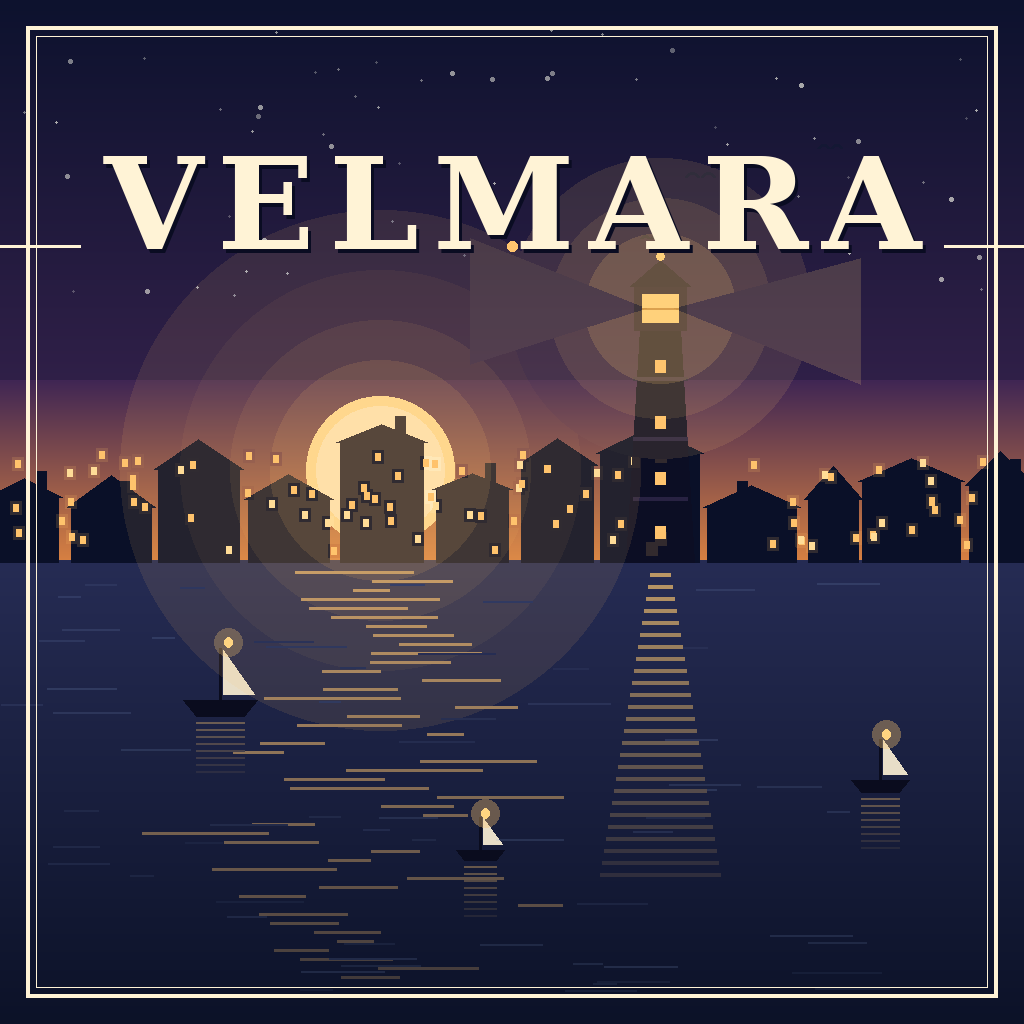
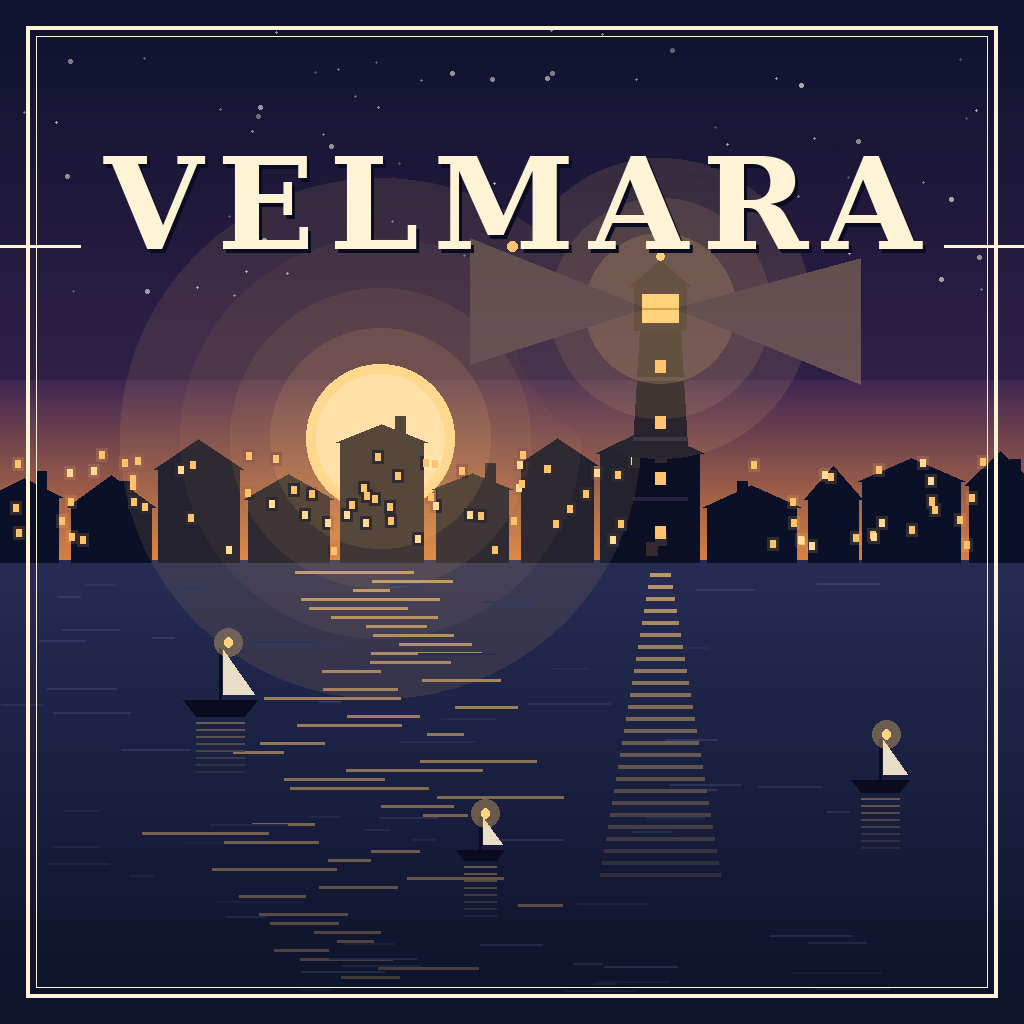
Revision: raise the sun clear of the rooftops, warm the tower beams

diff --git a/build_image.py b/build_image.py
@@ -38,7 +38,7 @@ def main():
     vgrad(d, (0, 0, W, HORIZON), (13, 18, 46), (64, 38, 84))
     vgrad(d, (0, 380, W, HORIZON), (64, 38, 84), (214, 128, 66))
     # sun glow + disc, low over the sea, left of centre
-    sx, sy, sr = 380, 470, 74
+    sx, sy, sr = 380, 438, 74
     for r, a in ((260, 26), (200, 38), (150, 55), (110, 80)):
         od.ellipse([sx - r, sy - r, sx + r, sy + r], fill=(255, 190, 100, a))
     d.ellipse([sx - sr, sy - sr, sx + sr, sy + sr], fill=(255, 226, 160))
@@ -128,9 +128,9 @@ def main():
     d.ellipse([tx - 4, top_y - 16, tx + 4, top_y - 8], fill=(255, 214, 130))
     # light beams fanning out
     od.polygon([(tx - 14, top_y + 40), (tx - 190, top_y - 30), (tx - 190, top_y + 96)],
-               fill=(255, 210, 120, 46))
+               fill=(255, 210, 120, 72))
     od.polygon([(tx + 14, top_y + 40), (tx + 200, top_y - 10), (tx + 200, top_y + 116)],
-               fill=(255, 210, 120, 46))
+               fill=(255, 210, 120, 72))
     # tower light reflected on the sea
     for i in range(26):
         y = HORIZON + 14 + i * 12
